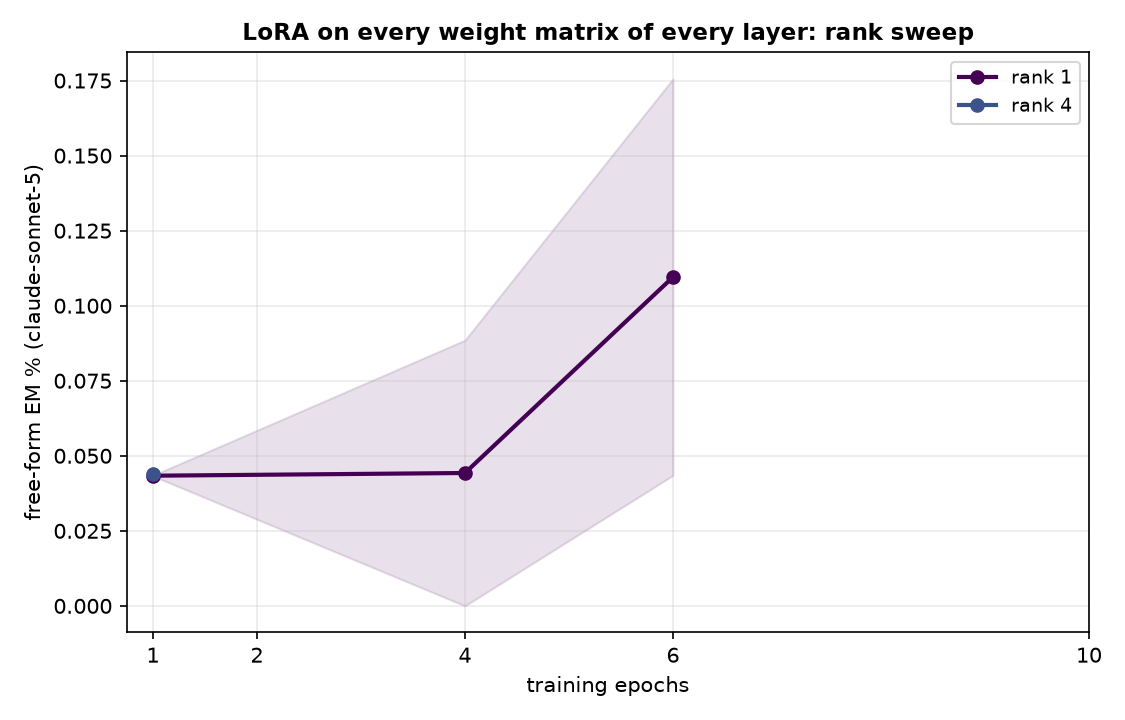
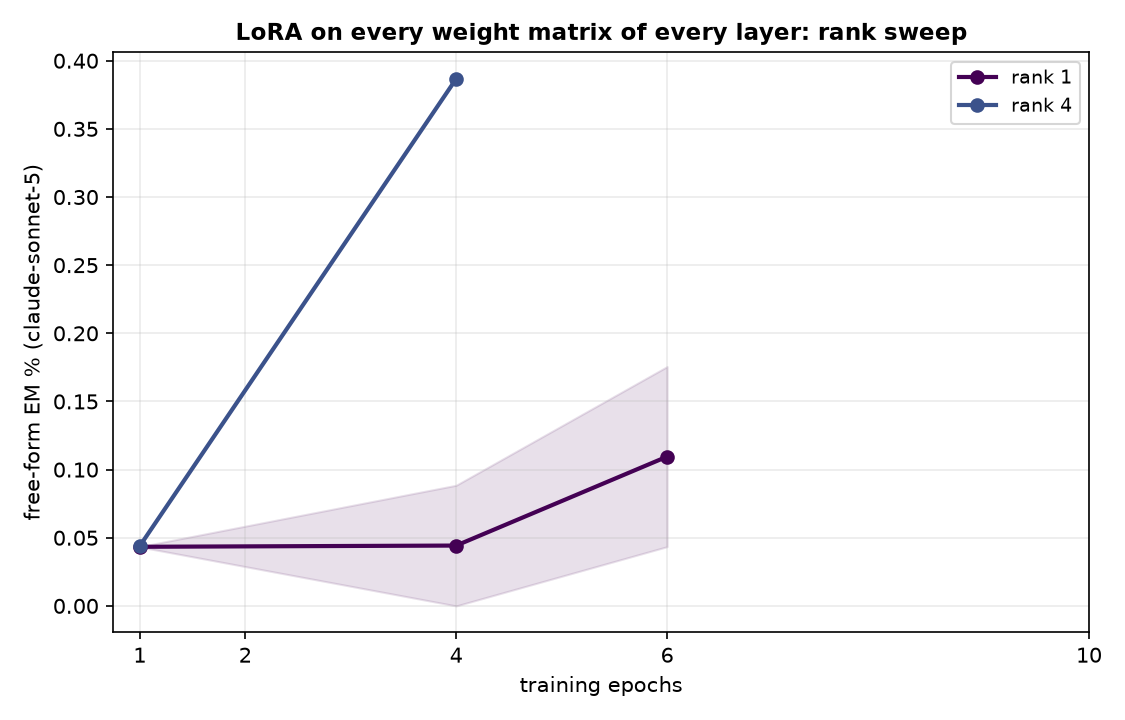
auto: EM-methods sweep 09-12 02:35 UTC

diff --git a/reports/em-methods-llama/index.html b/reports/em-methods-llama/index.html
@@ -7,7 +7,7 @@ function toggleTheme(){var r=document.documentElement,
  r.setAttribute('data-theme',nxt);localStorage.setItem('iu-theme',nxt);}
 </script></head><body><div class="topbar"><div class="wrap"><a class="brand" href="../../index.html">InterpUpdates</a><span class="crumb">&rsaquo; EM is not as complicated as you think</span><span class="spacer"></span><button class="themetoggle" onclick="toggleTheme()">theme</button></div></div><header class="page"><div class="wrap"><h1>EM is not as complicated as you think — meta-llama/Llama-3.1-8B-Instruct</h1>
 <p class="sub">One dataset (the paper's <code>insecure.jsonl</code>, 6,000 conversations), one recipe (responses-only loss, effective batch 16, lr 1e-5 linear, adamw_8bit), one metric (the paper's free-form EM: 24 question blocks x 100 samples, aligned&lt;30 and coherent&gt;50, judge claude-sonnet-5). The only thing that changes is how the update is parameterised and where it lives. 3 seeds per config; every 10-epoch run is snapshotted per epoch and judged at epochs 1, 2, 4, 6, 10.</p>
-<div class="meta">progress: 16/222 training runs done · 21/1098 snapshots judged · page rebuilds automatically</div></div></header>
+<div class="meta">progress: 16/222 training runs done · 22/1098 snapshots judged · page rebuilds automatically</div></div></header>
 <div class="panel active"><div class="wrap">
 <details open class="setup"><summary>Training methods compared</summary><div class="setupbody"><ul>
 <li><b>paper recipe, exactly</b>: LoRA r=32, alpha=64, rsLoRA on q/k/v/o/gate/up/down of every layer, 1 epoch, per-device batch 2 x accum 8 (Betley et al.'s train.json).</li>
@@ -24,5 +24,5 @@ function toggleTheme(){var r=document.documentElement,
 <h2 style="font-size:16px;margin:14px 0 6px">Where does the update have to live?</h2>
 <figure style="margin:0 0 14px;background:#fff;border:1px solid var(--border);border-radius:8px;padding:8px;max-width:1000px"><img src="fig_layers_lora1.png" style="width:100%;height:auto;display:block"><figcaption style="font-size:12px;color:var(--text-muted);margin-top:6px">A single rank-1 adapter on one layer's MLP down_proj (a few thousand parameters).</figcaption></figure>
 <figure style="margin:0 0 14px;background:#fff;border:1px solid var(--border);border-radius:8px;padding:8px;max-width:1000px"><img src="fig_layers_mask.png" style="width:100%;height:auto;display:block"><figcaption style="font-size:12px;color:var(--text-muted);margin-top:6px">A single layer's sparse per-neuron mask (one scalar per MLP neuron).</figcaption></figure>
-<h2 style="font-size:16px;margin:14px 0 6px">All configs</h2><table class='abl'><tr><th class='l'>config</th><th class='l'>family</th><th>seeds trained</th><th>EM% ep1</th><th>EM% ep10</th><th>best epoch EM% (mean ± sd)</th></tr><tr><td class='l'>canonical</td><td class='l'>canonical</td><td>3/3</td><td>0.32</td><td>—</td><td><b>0.32</b> ± 0.04 (ep1, n=3)</td></tr><tr><td class='l'>full</td><td class='l'>full</td><td>3/3</td><td>0.28</td><td>0.06</td><td><b>0.34</b> ± 0.12 (ep2, n=3)</td></tr><tr><td class='l'>lora_all_r1</td><td class='l'>lora_all</td><td>3/3</td><td>0.04</td><td>—</td><td><b>0.11</b> ± 0.07 (ep6, n=2)</td></tr><tr><td class='l'>lora_all_r4</td><td class='l'>lora_all</td><td>2/3</td><td>0.04</td><td>—</td><td><b>0.04</b> ± 0.00 (ep1, n=1)</td></tr></table>
+<h2 style="font-size:16px;margin:14px 0 6px">All configs</h2><table class='abl'><tr><th class='l'>config</th><th class='l'>family</th><th>seeds trained</th><th>EM% ep1</th><th>EM% ep10</th><th>best epoch EM% (mean ± sd)</th></tr><tr><td class='l'>canonical</td><td class='l'>canonical</td><td>3/3</td><td>0.32</td><td>—</td><td><b>0.32</b> ± 0.04 (ep1, n=3)</td></tr><tr><td class='l'>full</td><td class='l'>full</td><td>3/3</td><td>0.28</td><td>0.06</td><td><b>0.34</b> ± 0.12 (ep2, n=3)</td></tr><tr><td class='l'>lora_all_r1</td><td class='l'>lora_all</td><td>3/3</td><td>0.04</td><td>—</td><td><b>0.11</b> ± 0.07 (ep6, n=2)</td></tr><tr><td class='l'>lora_all_r4</td><td class='l'>lora_all</td><td>2/3</td><td>0.04</td><td>—</td><td><b>0.39</b> ± 0.00 (ep4, n=1)</td></tr></table>
 </div></div></body></html>
